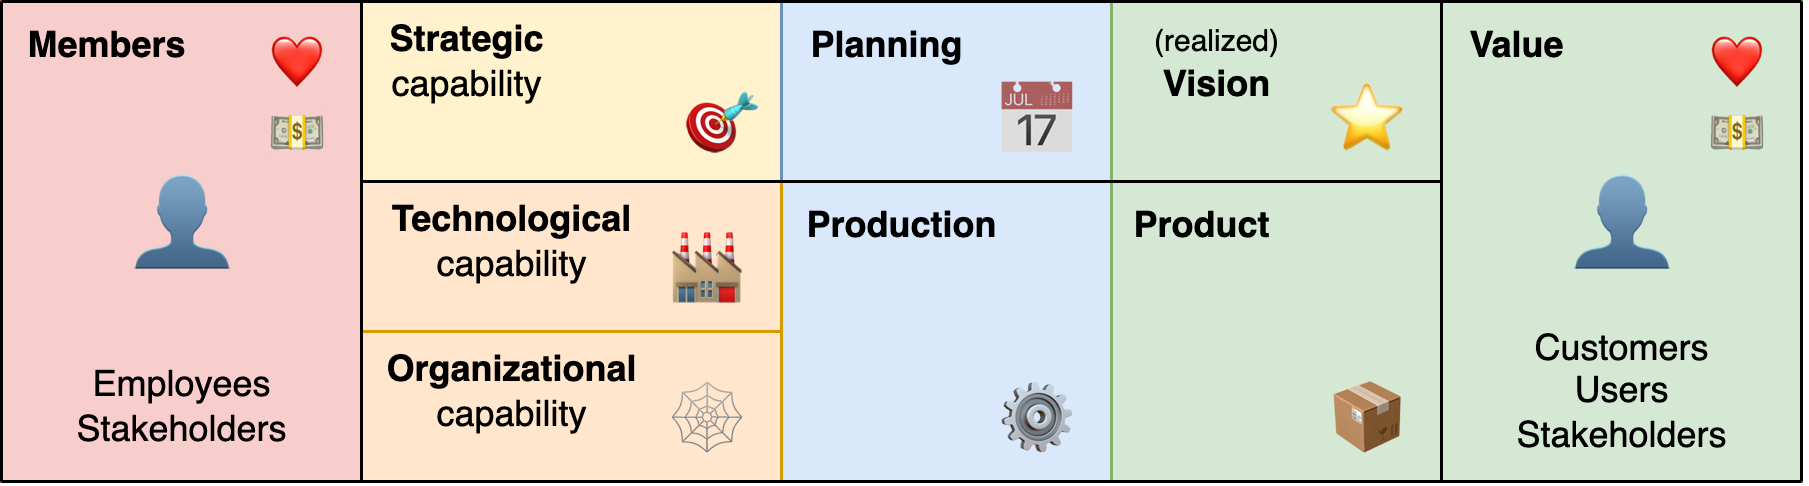
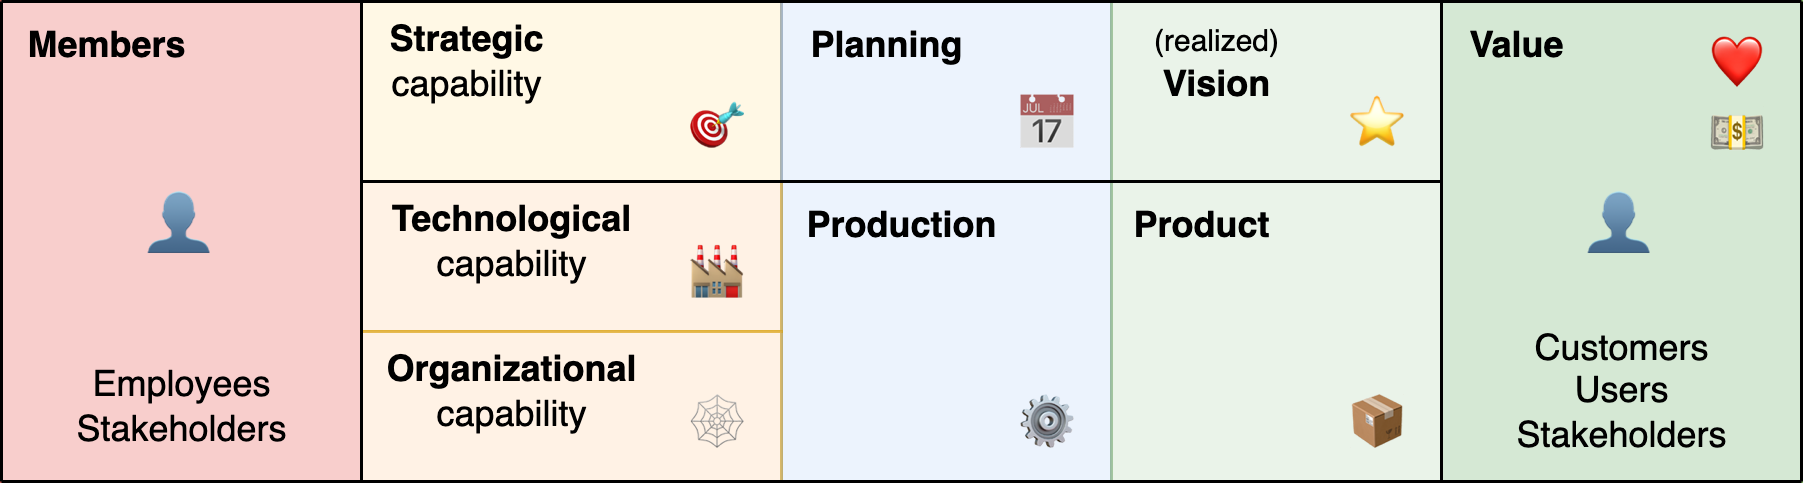
add business/product template

diff --git a/management/product-management.md b/management/product-management.md
@@ -1,6 +1,6 @@
 # Product Management
 
-This document explores the management of [products and projects](../labour/products-projects-initiatives.md). It excludes [business operations](https://en.wikipedia.org/wiki/Business_operations). See also [goals and strategy](./goals-planning-strategy.md),  [management principles](../management-principles.md) and [requirements-engineering](../requirements-engineering.md) and [results](../labour/realization.md).
+This document explores the management of [products and projects](../labour/products-projects-initiatives.md). It de-emphasises [business operations](https://en.wikipedia.org/wiki/Business_operations). See also [goals and strategy](./goals-planning-strategy.md),  [management principles](../management-principles.md) and [requirements-engineering](../requirements-engineering.md) and [results](../labour/realization.md).
 
 [toc]
 
@@ -8,13 +8,47 @@ This document explores the management of [products and projects](../labour/produ
 
 Product management revolves around:
 
-1. Designing a product vision and strategy.
-2. Discovering the market fit. Understanding the users and customers.
-3. Delivering the product customers. 
+1. **Designing** a product (business) vision.
+2. **Discovering** the market fit. Understanding the users and customers.
+3. **Delivering** the product to customers. 
 
-It requires continuous collaborating with specialists.
+At the same time, it consists of collaborating with partners and managing production.
 
 
+
+### Contextual View
+
+Running a business involves collaboration and [management](https://en.wikipedia.org/wiki/Business_Model_Canvas).
+
+- It is centered around a **value proposition**.
+- **Activity**. Coordinating partners and resources in order to realize the proposition.
+- **Channels**. Delivering to customers. Developing relationships with customers.
+
+
+
+<img src="../img/grid-business-partners-customers-value.png" alt="grid-business-partners-customers-value" style="width:70%;" />
+
+
+
+### Internal View
+
+Value delivery is the result of realization of a vision. See [performance](../collaboration/team-performance.md).
+
+<img src="../img/grid-organization-production-product.png" alt="grid-organization-production-product" style="width:70%;" />
+
+Value delivery is contingent upon production and capability.
+
+<img src="../img/product-production-capability.png" alt="product-production-capability" style="width:55%;" />
+
+
+
+[Discovery](../labour/discovery.md) and [delivery](../labour/realization.md) involve [initiatives](../labour/initiatives.md) and [bets](../labour/bets.md).
+
+<img src="../img/prototype-to-release.png" alt="prototype-to-release" style="width:90%;" />
+
+
+
+## Project Management
 
 **From project to product**
 

diff --git a/collaboration/team-performance.md b/collaboration/team-performance.md
@@ -28,6 +28,8 @@ The following roles provide **accountability**:
 - Product manager. *Build the right thing.* *What is produced.*
 - Engineers. *Build it right.* *How it is produced*
 
+There are many other roles. E.g. problem solving, removing impediments and coaching.
+
 
 
 ## Succes
